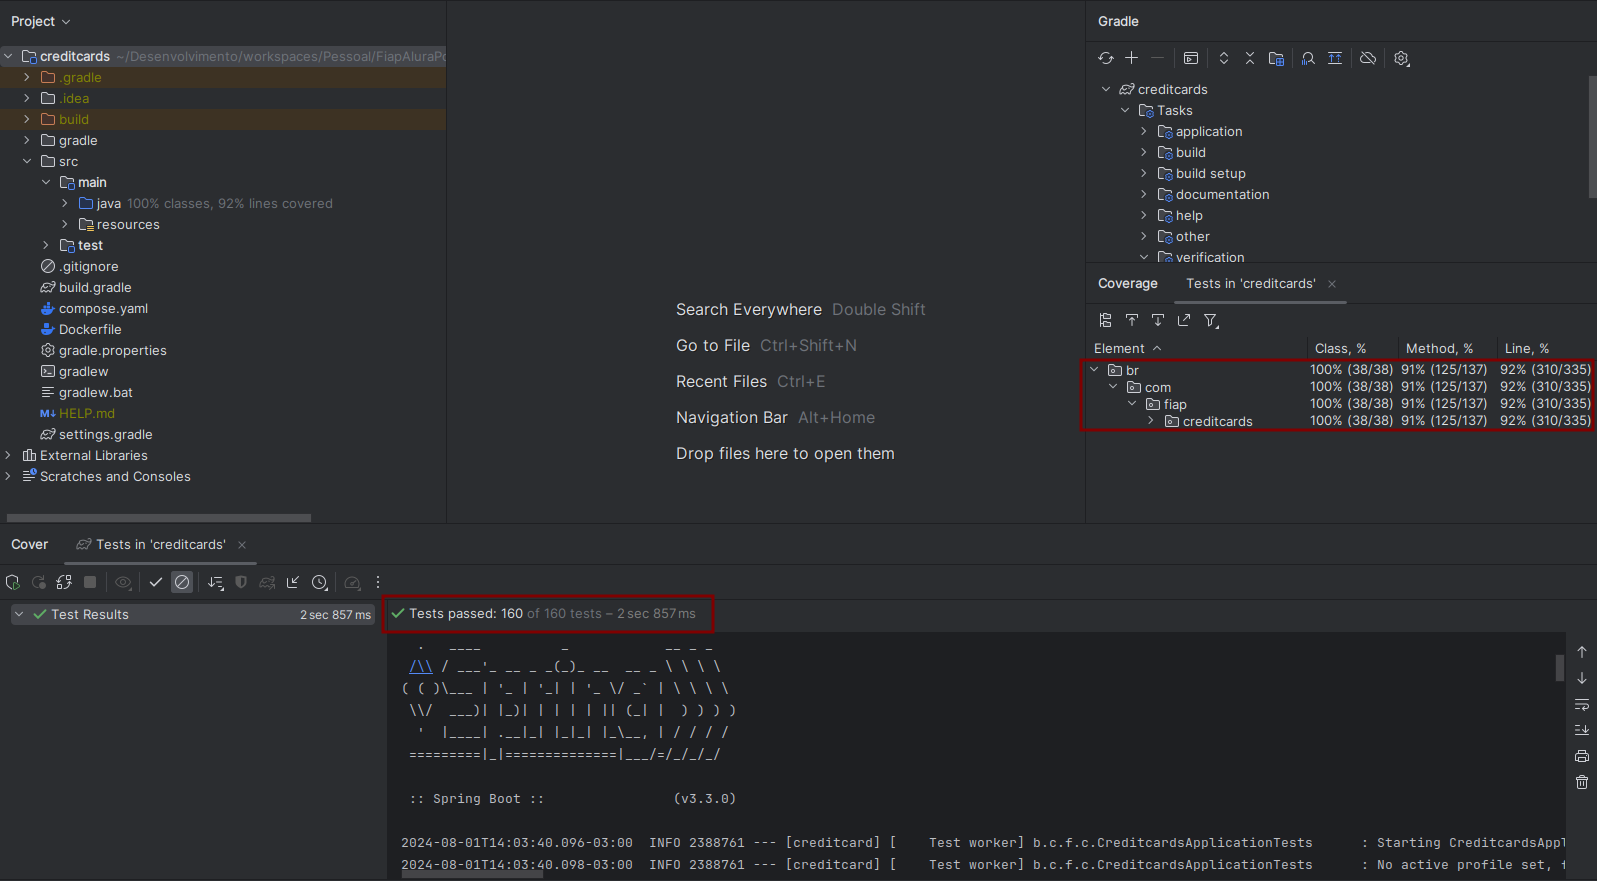
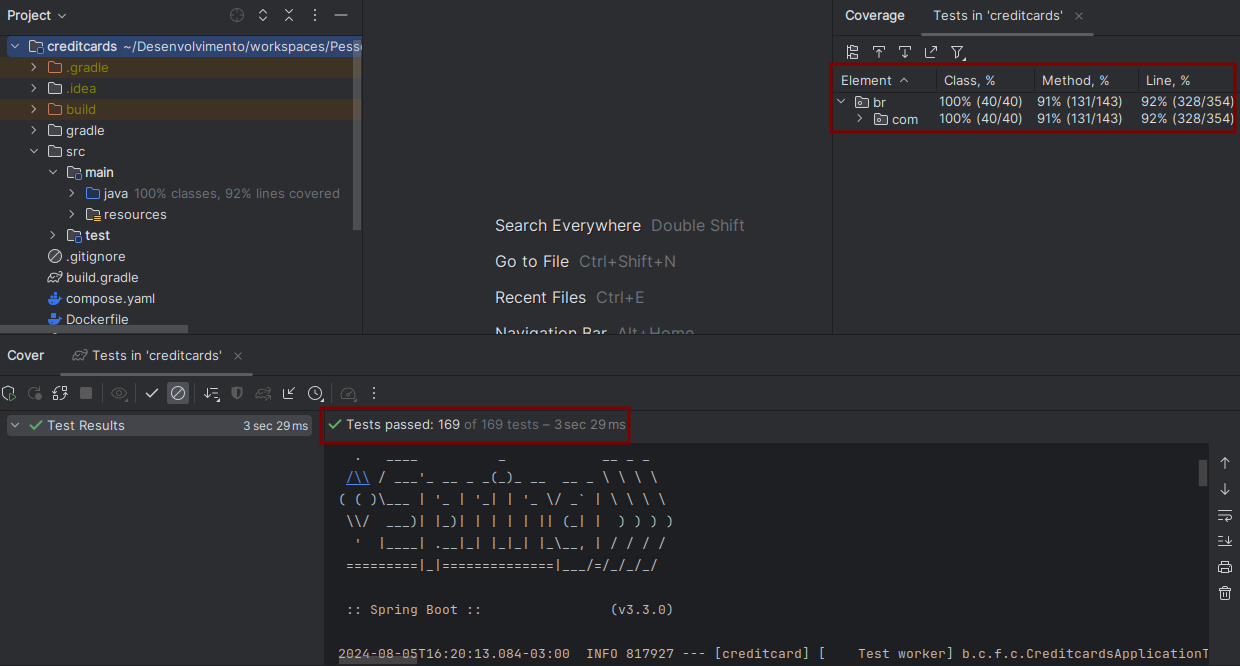
feat(creditcard): credit card number mask updated.

diff --git a/creditcards/src/test/java/br/com/fiap/creditcards/domain/valueobject/CreditCardNumberTest.java b/creditcards/src/test/java/br/com/fiap/creditcards/domain/valueobject/CreditCardNumberTest.java
@@ -1,6 +1,6 @@
 package br.com.fiap.creditcards.domain.valueobject;
 
-import static br.com.fiap.creditcards.domain.valueobject.CreditCardNumber.NUMBER_LENGTH;
+import static br.com.fiap.creditcards.domain.valueobject.CreditCardNumber.NUMBER_MAX_LENGTH;
 import static br.com.fiap.creditcards.domain.valueobject.CreditCardNumber.NUMBER_VALUE_ACCEPTS_ONLY_NUMBER_MESSAGE;
 import static br.com.fiap.creditcards.domain.valueobject.CreditCardNumber.NUMBER_VALUE_CANNOT_BE_NULL_OR_EMPTY_MESSAGE;
 import static br.com.fiap.creditcards.domain.valueobject.CreditCardNumber.NUMBER_VALUE_LENGTH_INVALID_MESSAGE;
@@ -8,7 +8,6 @@ import static org.assertj.core.api.Assertions.assertThatCode;
 import static org.assertj.core.api.Assertions.assertThatThrownBy;
 
 import br.com.fiap.creditcards.domain.exception.ValidatorException;
-import org.junit.jupiter.api.Test;
 import org.junit.jupiter.params.ParameterizedTest;
 import org.junit.jupiter.params.provider.NullAndEmptySource;
 import org.junit.jupiter.params.provider.ValueSource;
@@ -24,7 +23,8 @@ class CreditCardNumberTest {
   }
 
   @ParameterizedTest
-  @ValueSource(strings = {"ABCD", "123456789012AbCD"})
+  @ValueSource(strings = {"ABCD", "123456789012AbCD", "1234A5678B9012C3456", "123D 567C 901B 345A",
+      "ABCD EFGH IJKLM NOPQ", "1234 5678 9014 345"})
   void shouldThrowValidatorExceptionWhenCreditCardNumberHasAlfaCharacters(String number) {
     assertThatThrownBy(() -> new CreditCardNumber(number))
         .isInstanceOf(ValidatorException.class)
@@ -36,12 +36,12 @@ class CreditCardNumberTest {
   void shouldThrowValidatorExceptionWhenCreditCardNumberLengthIsInvalid(String number) {
     assertThatThrownBy(() -> new CreditCardNumber(number))
         .isInstanceOf(ValidatorException.class)
-        .hasMessage(NUMBER_VALUE_LENGTH_INVALID_MESSAGE.formatted(NUMBER_LENGTH, number));
+        .hasMessage(NUMBER_VALUE_LENGTH_INVALID_MESSAGE.formatted(NUMBER_MAX_LENGTH, number));
   }
 
-  @Test
-  void shouldValidateCreditCardNumber() {
-    var number = "1234567890123456";
+  @ParameterizedTest
+  @ValueSource(strings = {"1234567890123456", "1234 5678 9012 3456"})
+  void shouldValidateCreditCardNumber(String number) {
     assertThatCode(() -> new CreditCardNumber(number)).doesNotThrowAnyException();
   }
 }

diff --git a/creditcards/src/main/java/br/com/fiap/creditcards/domain/valueobject/CreditCardNumber.java b/creditcards/src/main/java/br/com/fiap/creditcards/domain/valueobject/CreditCardNumber.java
@@ -5,8 +5,10 @@ import org.springframework.validation.FieldError;
 
 public class CreditCardNumber {
 
-  public static final Integer NUMBER_LENGTH = 16;
-  public static final String NUMBER_REGEX = "^[0-9]*\\.?[0-9]+$";
+  public static final Integer NUMBER_MAX_LENGTH = 19;
+  public static final Integer NUMBER_MIN_LENGTH = 16;
+  public static final String FIRST_NUMBER_REGEX = "^[0-9]*\\.?[0-9]+$";
+  private static final String SECOND_NUMBER_REGEX = "\\d{4} \\d{4} \\d{4} \\d{4}";
   public static final String NUMBER_FIELD = "numero";
   public static final String NUMBER_VALUE_CANNOT_BE_NULL_OR_EMPTY_MESSAGE = "O número do cartão de crédito não pode ser %s.";
   public static final String NUMBER_VALUE_LENGTH_INVALID_MESSAGE = "O número do cartão de crédito deve possuir %s caracteres. Você informou %s.";
@@ -21,7 +23,7 @@ public class CreditCardNumber {
   }
 
   private void validateOnlyNumbersInCreditCard(String number) {
-    if (!number.matches(NUMBER_REGEX)) {
+    if (!number.matches(FIRST_NUMBER_REGEX) && !number.matches(SECOND_NUMBER_REGEX)) {
       throw new ValidatorException(
           new FieldError(this.getClass().getSimpleName(), NUMBER_FIELD,
               NUMBER_VALUE_ACCEPTS_ONLY_NUMBER_MESSAGE.formatted(number)));
@@ -30,9 +32,9 @@ public class CreditCardNumber {
   }
 
   private void validateLength(String number) {
-    if (number.length() != NUMBER_LENGTH) {
+    if (number.length() != NUMBER_MAX_LENGTH && number.length() != NUMBER_MIN_LENGTH) {
       throw new ValidatorException(new FieldError(this.getClass().getSimpleName(), NUMBER_FIELD,
-          NUMBER_VALUE_LENGTH_INVALID_MESSAGE.formatted(NUMBER_LENGTH, number)));
+          NUMBER_VALUE_LENGTH_INVALID_MESSAGE.formatted(NUMBER_MAX_LENGTH, number)));
     }
   }
 

diff --git a/README.md b/README.md
@@ -170,7 +170,7 @@ Foi utilizado no projeto o flyway para criar a tabela de banco de dados e realiz
 
 # Microsserviço de clientes - Resultado dos testes
 
-169 testes de integração e unidade, executados em 2 segudos, com 100% de classes e 91% de linhas de código cobertas.
+169 testes de integração e unidade, executados em 2 segudos, com 100% de classes e 92% de linhas de código cobertas.
 
 ![alt text](./img/cliente_cobertura_testes.png)
 
@@ -242,7 +242,7 @@ Foi utilizado no projeto o flyway para criar a tabela de banco de dados e realiz
 
 # Microsserviço de cartões de crédito - Resultado dos testes
 
-160 testes de integração e unidade, executados em 2 segudos, com 100% de classes e 92% de linhas de código cobertas.
+169 testes de integração e unidade, executados em 2 segudos, com 100% de classes e 92% de linhas de código cobertas.
 
 O microsserviço de cartões de crédito realiza uma comunicação com o microsserviço de clientes, para verificar se o CPF existe. Esta comunicação poderia influenciar nos testes de integração, pois este realiza um teste iniciando do endpoint, passando pelas camadas internas da aplicação, realiza uma operação no banco de dados e por fim faz todo o caminho de volta, retornando o resultado do consumo do endpoint. Para que o teste seja independente do microsserviço de clientes, foi utilizado o WireMock no teste de integração para simular o microsserviço de clientes, sem que este esteja ativo.
 
